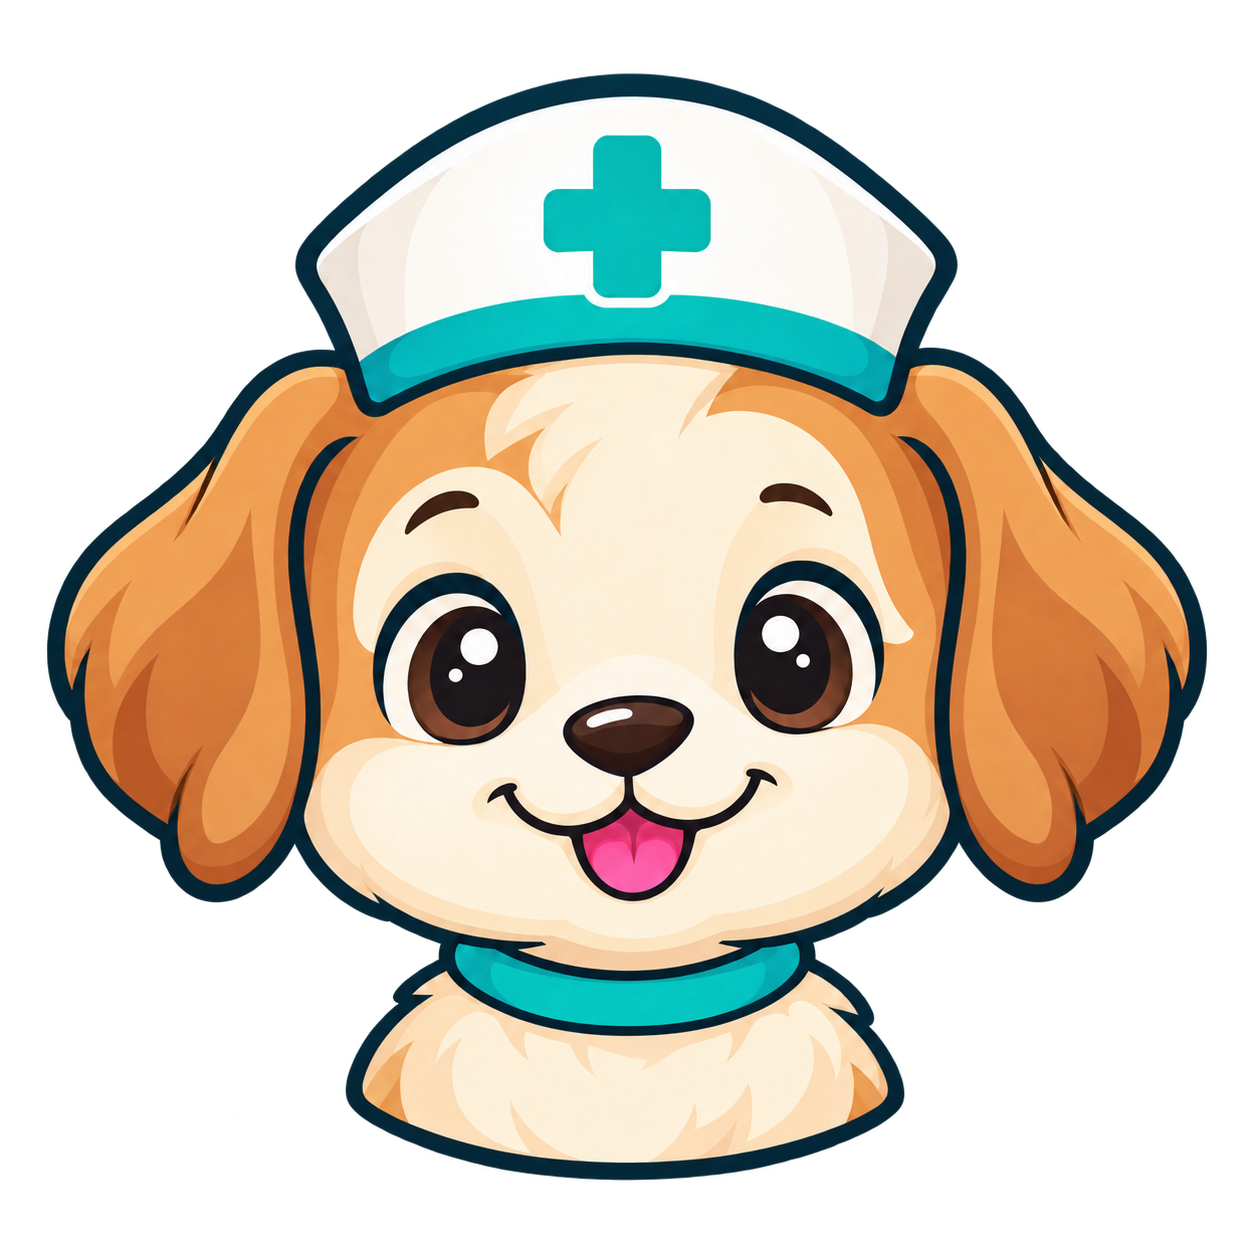
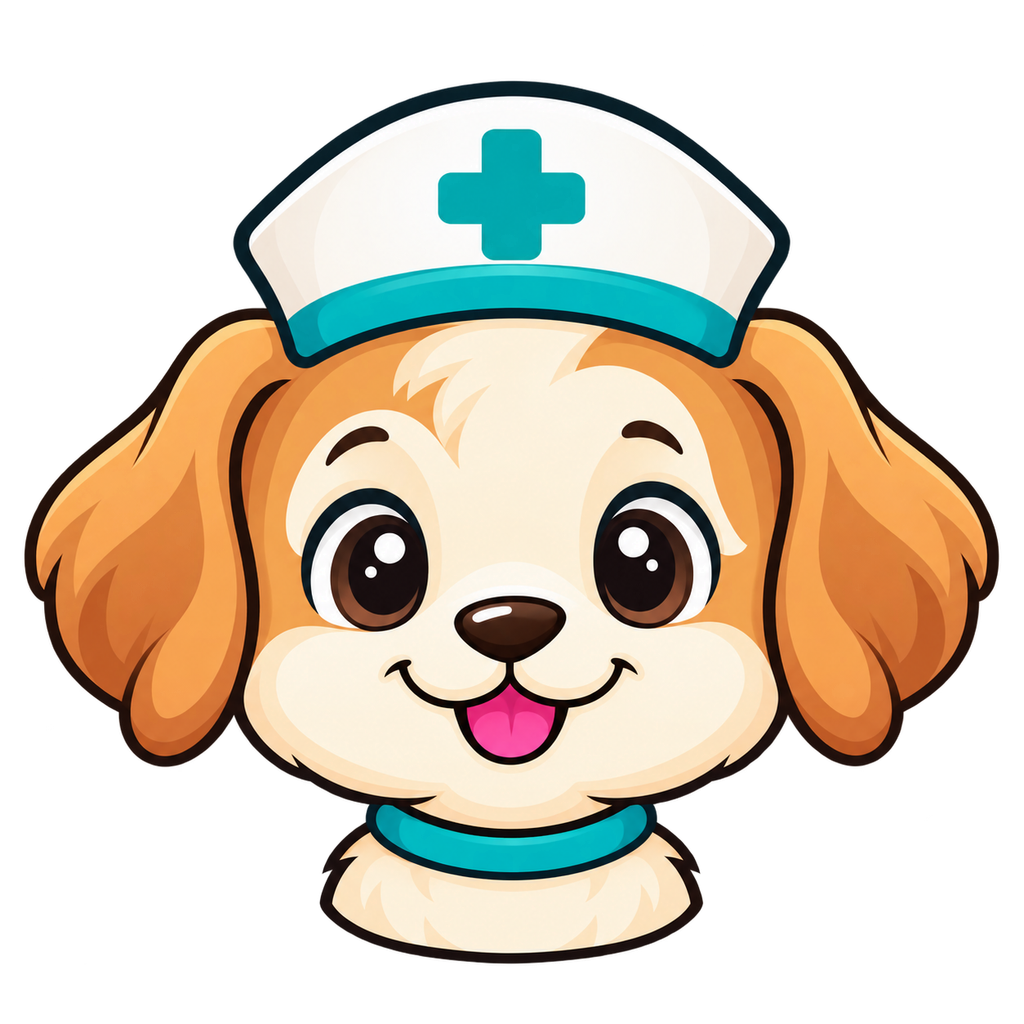
feat: refine Dr Wau mascot and unify app branding

Changed region(s): [[0.0, 0.0312, 1.0, 0.9688]]

diff --git a/settings/index.html b/settings/index.html
@@ -5,27 +5,28 @@
   <meta name="viewport" content="width=device-width, initial-scale=1">
   <title>Dr. Wau</title>
   <script type="text/javascript" src="/homey.js" data-origin="settings"></script>
+  <link rel="stylesheet" href="../assets/brand.css">
   <style>
-    :root { color-scheme: light dark; font-family: Inter, system-ui, sans-serif; --accent: #0d8385; --brand-highlight: #0f8f91; --critical: #b42318; --high: #d92d20; --medium: #dc6803; --low: #475467; --surface: color-mix(in srgb, Canvas 94%, var(--accent)); }
+    :root { font-family: Inter, system-ui, sans-serif; --critical: #b42318; --high: #d92d20; --medium: #dc6803; --low: #475467; }
     * { box-sizing: border-box; }
-    body { margin: 0; padding: 24px; background: Canvas; color: CanvasText; }
+    body { margin: 0; padding: 24px; background: var(--page); color: var(--text); }
     main { max-width: 1040px; margin: 0 auto; }
     header, .section-heading { display: flex; gap: 18px; align-items: center; justify-content: space-between; flex-wrap: wrap; }
     h1, h2, p { margin-top: 0; }
     h1 { margin-bottom: 5px; font-size: 25px; }
-    .brand-heading { display: flex; align-items: center; gap: 14px; min-width: 0; }
-    .brand-mark { width: 72px; height: 72px; flex: 0 0 72px; object-fit: contain; }
-    .brand-heading h1::after { content: ''; display: block; width: 36px; height: 3px; margin-top: 6px; border-radius: 2px; background: var(--brand-highlight); }
+    .brand-heading { display: flex; flex-direction: column; align-items: center; gap: 12px; min-width: 0; width: 100%; padding: 10px 0; text-align: center; }
+    .brand-mark { display: block; width: 104px; height: 104px; object-fit: contain; padding: 8px; border: 1px solid var(--border); border-radius: 28px; background: var(--surface); box-shadow: 0 5px 18px rgb(15 143 145 / 8%); }
+    .brand-heading h1::after { content: ''; display: block; width: 36px; height: 3px; margin: 6px auto 0; border-radius: 2px; background: var(--brand-highlight); }
     h2 { font-size: 18px; margin: 0; }
     .muted { opacity: .7; }
-    button { appearance: none; border: 0; border-radius: 10px; min-height: 44px; max-width: 100%; overflow-wrap: anywhere; padding: 10px 14px; background: var(--accent); color: white; font-weight: 700; cursor: pointer; }
+    button { appearance: none; border: 0; border-radius: 10px; min-height: 44px; max-width: 100%; overflow-wrap: anywhere; padding: 10px 14px; background: var(--brand-button); color: white; font-weight: 700; cursor: pointer; }
     button.secondary { background: transparent; color: CanvasText; border: 1px solid color-mix(in srgb, CanvasText 20%, transparent); }
     button.danger { background: transparent; color: var(--critical); border: 1px solid color-mix(in srgb, var(--critical) 35%, transparent); }
     button:disabled { opacity: .55; cursor: wait; }
     .actions, .editor-actions { display: flex; gap: 9px; flex-wrap: wrap; }
     .tabs { display: flex; gap: 6px; margin: 18px 0; padding: 4px; overflow-x: auto; border: 1px solid color-mix(in srgb, CanvasText 12%, transparent); border-radius: 12px; background: var(--surface); scrollbar-width: thin; }
     .tab { flex: 0 0 auto; padding: 9px 12px; background: transparent; color: CanvasText; border: 1px solid transparent; white-space: nowrap; }
-    .tab[aria-selected="true"] { background: var(--accent); color: white; box-shadow: 0 2px 7px color-mix(in srgb, var(--accent) 28%, transparent); }
+    .tab[aria-selected="true"] { background: var(--brand-button); color: white; box-shadow: 0 2px 7px color-mix(in srgb, var(--accent) 28%, transparent); }
     .tab:focus-visible { outline: 3px solid color-mix(in srgb, var(--accent) 35%, transparent); outline-offset: 1px; }
     .tab-panel[hidden] { display: none; }
     .panel-heading { margin-bottom: 16px; }
@@ -52,7 +53,7 @@
     .notice { margin: 18px 0; padding: 13px 15px; border: 1px solid color-mix(in srgb, var(--accent) 35%, transparent); border-radius: 12px; background: var(--surface); }
     .score-grid { display: grid; grid-template-columns: 1.25fr repeat(4, minmax(100px, 1fr)); gap: 10px; margin: 18px 0; }
     .score-card { min-height: 112px; border: 1px solid color-mix(in srgb, CanvasText 14%, transparent); border-radius: 14px; padding: 15px; background: var(--surface); }
-    .score-card.main { background: var(--accent); color: white; }
+    .score-card.main { background: var(--brand-button); color: white; }
     .score { font-size: 36px; font-weight: 800; line-height: 1; margin: 7px 0; }
     .label { font-size: 12px; text-transform: uppercase; letter-spacing: .06em; opacity: .75; }
     .inventory { display: flex; flex-wrap: wrap; gap: 8px; margin-bottom: 22px; }
@@ -103,14 +104,14 @@
     .board-description { margin: 8px 0 14px; }
     .empty { text-align: center; padding: 32px; border: 1px dashed color-mix(in srgb, CanvasText 25%, transparent); border-radius: 12px; }
     @media (max-width: 760px) { body { padding: 16px; } .tabs { display: grid; grid-template-columns: repeat(2, minmax(0, 1fr)); overflow: visible; } .tab { width: 100%; min-width: 0; white-space: normal; } .score-grid { grid-template-columns: repeat(2, minmax(0, 1fr)); } .score-card.main { grid-column: 1 / -1; } .editor, .watchdog-grid, .overview-grid, .detail-grid, .watchdog-filter-row { grid-template-columns: 1fr; } .filters { flex-wrap: wrap; } .filters select { max-width: 100%; } }
-    @media (max-width: 480px) { .device-item { grid-template-columns: minmax(0, 1fr); } .device-item span { max-width: none; text-align: left; } .device-detail { padding: 12px; } .brand-mark { width: 56px; height: 56px; flex-basis: 56px; } }
+    @media (max-width: 480px) { .device-item { grid-template-columns: minmax(0, 1fr); } .device-item span { max-width: none; text-align: left; } .device-detail { padding: 12px; } .brand-mark { width: 88px; height: 88px; } }
   </style>
 </head>
 <body>
 <main>
   <header>
     <div class="brand-heading">
-      <img class="brand-mark" src="../assets/dr-wau-avatar.png" alt="" width="72" height="72">
+      <img class="brand-mark" src="../assets/dr-wau-avatar.png" alt="" width="104" height="104">
       <div>
         <h1>Dr. Wau</h1>
         <p class="muted" data-i18n="subtitle">Read-only check with persistent finding management.</p>

diff --git a/backup/settings/backup.css b/backup/settings/backup.css
@@ -1,9 +1,7 @@
 :root {
   color-scheme: light dark;
-  --blue: #164b88; --sky: #43adee; --cream: #fff3e3; --orange: #bd702d;
-  --page: #f2f7fd; --surface: #fff; --soft: #eaf3ff; --text: #14304f;
-  --muted: #506780; --border: #c9d9ea; --danger: #ad353b; --success: #236a50;
-  --hero: linear-gradient(125deg, #e2f2ff, #f8fcff 65%, #fff0dc);
+  --blue: var(--accent); --sky: var(--brand-line); --orange: #bd702d;
+  --danger: #ad353b; --success: #236a50;
   font-family: system-ui, -apple-system, 'Segoe UI', sans-serif;
 }
 * { box-sizing: border-box; }
@@ -16,8 +14,9 @@ main h1 { color: var(--text); font-size: clamp(28px, 5vw, 38px); line-height: 1.
 main h2 { color: var(--text); font-size: 21px; line-height: 1.35; margin: 0 0 14px; }
 main p { color: var(--muted); margin: 10px 0 16px; overflow-wrap: anywhere; }
 .back-link { display: inline-block; padding: 5px 0 12px; font-weight: 700; }
-.hero { display: flex; gap: 20px; align-items: center; padding: 26px; border: 1px solid var(--border); border-radius: 22px; background: var(--hero); }
-.hero-mark { flex: 0 0 auto; display: grid; place-items: center; width: 66px; height: 66px; font-size: 36px; border: 1px solid var(--border); background: var(--surface); border-radius: 20px; }
+.hero { display: flex; flex-direction: column; gap: 12px; align-items: center; padding: 26px; text-align: center; border: 1px solid var(--border); border-radius: 22px; background: var(--brand-hero); }
+.hero-mark { display: block; flex: 0 0 auto; object-fit: contain; width: 104px; height: 104px; padding: 8px; border: 1px solid var(--border); background: var(--surface); border-radius: 28px; box-shadow: 0 5px 18px rgb(15 143 145 / 8%); }
+.hero-copy { max-width: 640px; }
 .hero .badge { color: var(--blue); font-size: 13px; font-weight: 750; }
 .hero p { margin-bottom: 0; }
 .hero .tagline { color: var(--blue); font-weight: 700; }
@@ -38,7 +37,7 @@ main p { color: var(--muted); margin: 10px 0 16px; overflow-wrap: anywhere; }
 .stats { display: grid; grid-template-columns: repeat(3, minmax(0, 1fr)); gap: 10px; margin: 16px 0; }
 .stat { padding: 12px; background: var(--soft); border-radius: 12px; text-align: center; }
 .stat b { display: block; font-size: 24px; color: var(--blue); }
-main button, main .button { appearance: none; display: inline-flex; align-items: center; justify-content: center; gap: 7px; min-height: 44px; max-width: 100%; font: 650 15px/1.4 system-ui, sans-serif; background: var(--blue); color: #fff; border: 1px solid transparent; border-radius: 10px; padding: 11px 16px; cursor: pointer; text-decoration: none; white-space: normal; }
+main button, main .button { appearance: none; display: inline-flex; align-items: center; justify-content: center; gap: 7px; min-height: 44px; max-width: 100%; font: 650 15px/1.4 system-ui, sans-serif; background: var(--brand-button); color: #fff; border: 1px solid transparent; border-radius: 10px; padding: 11px 16px; cursor: pointer; text-decoration: none; white-space: normal; }
 main button:hover, main .button:hover { filter: brightness(1.08); }
 main button.secondary { background: var(--soft); color: var(--blue); border-color: var(--border); }
 main button.danger { background: var(--danger); color: #fff; }
@@ -84,15 +83,14 @@ main :focus-visible { outline: 3px solid var(--sky); outline-offset: 3px; }
 .file-button:has(+input:focus-visible) { outline: 3px solid var(--sky); outline-offset: 3px; }
 .file-button:has(+input:disabled) { opacity: .5; cursor: not-allowed; }
 @media (prefers-color-scheme: dark) {
-  :root { --page: #0e192a; --surface: #182a42; --soft: #203751; --text: #eaf3ff; --muted: #b8cce1; --border: #3a5572; --blue: #96ceff; --danger: #ffb2b5; --success: #8addb4; --hero: linear-gradient(125deg, #203d60, #1a2d44 70%, #443522); }
-  main button, main .button { background: #245d9d; color: #fff; }
+  :root { --danger: #ffb2b5; --success: #8addb4; }
   main button.danger { background: #99373d; color: #fff; }
-  main input[type='checkbox'] { accent-color: #43adee; }
+  main input[type='checkbox'] { accent-color: var(--accent); }
 }
 @media (max-width: 600px) {
   main { padding: 14px; }
-  .hero { padding: 20px; gap: 13px; align-items: flex-start; }
-  .hero-mark { width: 48px; height: 48px; font-size: 28px; border-radius: 14px; }
+  .hero { padding: 20px; gap: 12px; }
+  .hero-mark { width: 88px; height: 88px; }
   .hero h1 { font-size: 28px; }
   .summary-strip, .grid { grid-template-columns: 1fr; }
   .summary-tile { padding: 14px 16px; }

diff --git a/settings/backup/backup.css b/settings/backup/backup.css
@@ -1,9 +1,7 @@
 :root {
   color-scheme: light dark;
-  --blue: #164b88; --sky: #43adee; --cream: #fff3e3; --orange: #bd702d;
-  --page: #f2f7fd; --surface: #fff; --soft: #eaf3ff; --text: #14304f;
-  --muted: #506780; --border: #c9d9ea; --danger: #ad353b; --success: #236a50;
-  --hero: linear-gradient(125deg, #e2f2ff, #f8fcff 65%, #fff0dc);
+  --blue: var(--accent); --sky: var(--brand-line); --orange: #bd702d;
+  --danger: #ad353b; --success: #236a50;
   font-family: system-ui, -apple-system, 'Segoe UI', sans-serif;
 }
 * { box-sizing: border-box; }
@@ -16,8 +14,9 @@ main h1 { color: var(--text); font-size: clamp(28px, 5vw, 38px); line-height: 1.
 main h2 { color: var(--text); font-size: 21px; line-height: 1.35; margin: 0 0 14px; }
 main p { color: var(--muted); margin: 10px 0 16px; overflow-wrap: anywhere; }
 .back-link { display: inline-block; padding: 5px 0 12px; font-weight: 700; }
-.hero { display: flex; gap: 20px; align-items: center; padding: 26px; border: 1px solid var(--border); border-radius: 22px; background: var(--hero); }
-.hero-mark { flex: 0 0 auto; display: grid; place-items: center; width: 66px; height: 66px; font-size: 36px; border: 1px solid var(--border); background: var(--surface); border-radius: 20px; }
+.hero { display: flex; flex-direction: column; gap: 12px; align-items: center; padding: 26px; text-align: center; border: 1px solid var(--border); border-radius: 22px; background: var(--brand-hero); }
+.hero-mark { display: block; flex: 0 0 auto; object-fit: contain; width: 104px; height: 104px; padding: 8px; border: 1px solid var(--border); background: var(--surface); border-radius: 28px; box-shadow: 0 5px 18px rgb(15 143 145 / 8%); }
+.hero-copy { max-width: 640px; }
 .hero .badge { color: var(--blue); font-size: 13px; font-weight: 750; }
 .hero p { margin-bottom: 0; }
 .hero .tagline { color: var(--blue); font-weight: 700; }
@@ -38,7 +37,7 @@ main p { color: var(--muted); margin: 10px 0 16px; overflow-wrap: anywhere; }
 .stats { display: grid; grid-template-columns: repeat(3, minmax(0, 1fr)); gap: 10px; margin: 16px 0; }
 .stat { padding: 12px; background: var(--soft); border-radius: 12px; text-align: center; }
 .stat b { display: block; font-size: 24px; color: var(--blue); }
-main button, main .button { appearance: none; display: inline-flex; align-items: center; justify-content: center; gap: 7px; min-height: 44px; max-width: 100%; font: 650 15px/1.4 system-ui, sans-serif; background: var(--blue); color: #fff; border: 1px solid transparent; border-radius: 10px; padding: 11px 16px; cursor: pointer; text-decoration: none; white-space: normal; }
+main button, main .button { appearance: none; display: inline-flex; align-items: center; justify-content: center; gap: 7px; min-height: 44px; max-width: 100%; font: 650 15px/1.4 system-ui, sans-serif; background: var(--brand-button); color: #fff; border: 1px solid transparent; border-radius: 10px; padding: 11px 16px; cursor: pointer; text-decoration: none; white-space: normal; }
 main button:hover, main .button:hover { filter: brightness(1.08); }
 main button.secondary { background: var(--soft); color: var(--blue); border-color: var(--border); }
 main button.danger { background: var(--danger); color: #fff; }
@@ -84,15 +83,14 @@ main :focus-visible { outline: 3px solid var(--sky); outline-offset: 3px; }
 .file-button:has(+input:focus-visible) { outline: 3px solid var(--sky); outline-offset: 3px; }
 .file-button:has(+input:disabled) { opacity: .5; cursor: not-allowed; }
 @media (prefers-color-scheme: dark) {
-  :root { --page: #0e192a; --surface: #182a42; --soft: #203751; --text: #eaf3ff; --muted: #b8cce1; --border: #3a5572; --blue: #96ceff; --danger: #ffb2b5; --success: #8addb4; --hero: linear-gradient(125deg, #203d60, #1a2d44 70%, #443522); }
-  main button, main .button { background: #245d9d; color: #fff; }
+  :root { --danger: #ffb2b5; --success: #8addb4; }
   main button.danger { background: #99373d; color: #fff; }
-  main input[type='checkbox'] { accent-color: #43adee; }
+  main input[type='checkbox'] { accent-color: var(--accent); }
 }
 @media (max-width: 600px) {
   main { padding: 14px; }
-  .hero { padding: 20px; gap: 13px; align-items: flex-start; }
-  .hero-mark { width: 48px; height: 48px; font-size: 28px; border-radius: 14px; }
+  .hero { padding: 20px; gap: 12px; }
+  .hero-mark { width: 88px; height: 88px; }
   .hero h1 { font-size: 28px; }
   .summary-strip, .grid { grid-template-columns: 1fr; }
   .summary-tile { padding: 14px 16px; }

diff --git a/backup/settings/index.html b/backup/settings/index.html
@@ -7,9 +7,9 @@
 <script src="backup.js"></script>
 <script src="transfer.js"></script>
 <script src="download.js"></script>
-<link rel="stylesheet" href="backup.css"></head><body><main>
+<link rel="stylesheet" href="../../assets/brand.css"><link rel="stylesheet" href="backup.css"></head><body><main>
 <a class="back-link" href="../index.html">← Dr. Wau</a>
-<header class="hero"><div class="hero-mark" aria-hidden="true">🐶</div><div><span class="badge"><span>Dr. Wau · Version</span> <span id="appVersion">…</span></span><h1>Backups</h1><p class="tagline">Keep your smart home in safe paws.</p><p>Create, schedule and check your Homey configuration backups. You choose what is restored.</p></div></header>
+<header class="hero"><img class="hero-mark" src="../../assets/dr-wau-avatar.png" alt="" width="104" height="104"><div class="hero-copy"><span class="badge"><span>Dr. Wau · Version</span> <span id="appVersion">…</span></span><h1>Backups</h1><p class="tagline">Keep your smart home in safe paws.</p><p>Create, schedule and check your Homey configuration backups. You choose what is restored.</p></div></header>
 <div class="summary-strip" aria-live="polite">
 <div class="summary-tile"><small>Automatic backups</small><strong id="backup-summary-schedule">Loading schedule…</strong><a href="#automatic-backup">Schedule</a></div>
 <div class="summary-tile"><small>Last successful backup</small><strong id="backup-summary-success">Loading status…</strong></div>

diff --git a/settings/backup/index.html b/settings/backup/index.html
@@ -7,9 +7,9 @@
 <script src="backup.js"></script>
 <script src="transfer.js"></script>
 <script src="download.js"></script>
-<link rel="stylesheet" href="backup.css"></head><body><main>
+<link rel="stylesheet" href="../../assets/brand.css"><link rel="stylesheet" href="backup.css"></head><body><main>
 <a class="back-link" href="../index.html">← Dr. Wau</a>
-<header class="hero"><div class="hero-mark" aria-hidden="true">🐶</div><div><span class="badge"><span>Dr. Wau · Version</span> <span id="appVersion">…</span></span><h1>Backups</h1><p class="tagline">Keep your smart home in safe paws.</p><p>Create, schedule and check your Homey configuration backups. You choose what is restored.</p></div></header>
+<header class="hero"><img class="hero-mark" src="../../assets/dr-wau-avatar.png" alt="" width="104" height="104"><div class="hero-copy"><span class="badge"><span>Dr. Wau · Version</span> <span id="appVersion">…</span></span><h1>Backups</h1><p class="tagline">Keep your smart home in safe paws.</p><p>Create, schedule and check your Homey configuration backups. You choose what is restored.</p></div></header>
 <div class="summary-strip" aria-live="polite">
 <div class="summary-tile"><small>Automatic backups</small><strong id="backup-summary-schedule">Loading schedule…</strong><a href="#automatic-backup">Schedule</a></div>
 <div class="summary-tile"><small>Last successful backup</small><strong id="backup-summary-success">Loading status…</strong></div>

diff --git a/assets/brand.css b/assets/brand.css
@@ -1,0 +1,29 @@
+:root {
+  color-scheme: light dark;
+  --accent: #0d8385;
+  --brand-highlight: #0f8f91;
+  --brand-button: #0d8385;
+  --brand-line: #35bdb1;
+  --page: #f7fbfb;
+  --surface: #ffffff;
+  --soft: #edf7f6;
+  --text: #183b40;
+  --muted: #526d72;
+  --border: #c9dfdd;
+  --brand-hero: linear-gradient(135deg, #e4f5f2, #f7fbfb);
+}
+@media (prefers-color-scheme: dark) {
+  :root {
+    --accent: #68d7ca;
+    --brand-highlight: #68d7ca;
+    --brand-button: #0d8385;
+    --brand-line: #35bdb1;
+    --page: #0e1c20;
+    --surface: #172b30;
+    --soft: #20373c;
+    --text: #edf7f6;
+    --muted: #b1ceca;
+    --border: #3c5c5f;
+    --brand-hero: linear-gradient(135deg, #1a3c3f, #172b30);
+  }
+}

diff --git a/docs/branding-1.0.0.md b/docs/branding-1.0.0.md
@@ -1,0 +1,40 @@
+# Dr. Wau 1.0.0 – Branding nach Privacy-Abnahme
+
+Diese Änderungen folgen auf `BACKUP PRIVACY PASS` und sind ein separater
+Branding-Commit. Sie wurden lokal geprüft, nicht erneut auf Homey installiert.
+Auf Homey bleibt der live bestätigte Privacy-Stand `16ff364` aktiv.
+
+## Umsetzung
+
+- Professionelleres transparentes Hundemaskottchen mit Arztmütze und Türkis,
+  ohne Anhänger; ausschließlich die Zunge ist magenta.
+- Zentriertes Hundebadge auf Haupt- und Backup-Seite, auch bei schmaler Ansicht.
+- Gemeinsames Farbsystem in `assets/brand.css`, mit Light/Dark-Flächen, Texten,
+  Rändern und türkisen Akzenten. Weiße Buttontexte behalten einen dunklen Hintergrund.
+- Backup-Seite verwendet das echte Maskottchen statt eines systemspezifischen
+  Hunde-Emojis. Bestehende Formulare, IDs und API-Handler bleiben erhalten.
+- `assets/dr-wau.png` (1.024 × 1.024) und `assets/dr-wau-avatar.png` (256 × 256)
+  sowie die drei Homey-Bilder wurden aktualisiert. Das native monochrome
+  `assets/icon.svg` bleibt im bestehenden Homey-Icon-System.
+- `tools/generate-assets.ps1` rendert über `generate-assets.cjs` die ausgewählte
+  Grafik und das vorhandene `assets/images/source.svg`. Das vorherige Werkzeug
+  erzeugte noch ein altes Pulssymbol ohne Maskottchen. Keine neuen Dependencies.
+
+## Prüfung
+
+Headless Brave mit ausschließlich lokalen synthetischen API-Antworten:
+Hauptseite und Backups, jeweils Light/Dark bei 320, 768 und 1.280 Pixeln.
+Alle **12 Szenarien** laden das Bild, zeigen ein mittiges Badge und keinen
+horizontalen Überlauf. Keine Browser-Exception. Screenshots der mobilen und
+Desktop-Ansichten wurden visuell geprüft. Kein Homey-Aufruf, Export oder Restore.
+Die bestehenden **251/251 Regressionstests** bestehen auch mit diesem Branding.
+
+## Bildgenerierung
+
+Verwendet wurde das eingebaute Bildgenerierungswerkzeug mit echter Transparenz.
+Das vorherige eigene Hundemaskottchen war die Bearbeitungsreferenz.
+Die endgültigen Projektdateien stehen unter den oben genannten Assetpfaden.
+
+Prompt:
+
+> Use case: identity-preserve / logo-brand. Edit target: the attached Dr. Wau dog mascot icon. Create one polished production app mascot on genuinely transparent background, square canvas, front-facing perfectly centered head and a very small neck, generous even safe margin. Preserve the cute golden brown floppy-ear puppy with cream muzzle, bright friendly eyes, small smiling open mouth, white doctor's cap with turquoise plus and turquoise cap rim, turquoise collar. Make it more professional and readable at 48 pixels: simplified balanced crisp contours, restrained smooth shading, clean symmetric cap and well controlled highlights, no tiny fur scratch marks, no oversized anime sparkle. Palette golden brown/cream fur, dark charcoal eyes/outline, white cap, turquoise #0F8F91. The small tongue is the ONLY magenta area, #D83980. IMPORTANT no pendant, no hanging badge, no stethoscope, no accessories, no text, no letters, no heart symbols, no extra magenta, no background disc or border, no watermark. Keep the character warm and cute and recognizable. Actual transparency with clean edges, full cap and ears visible.
